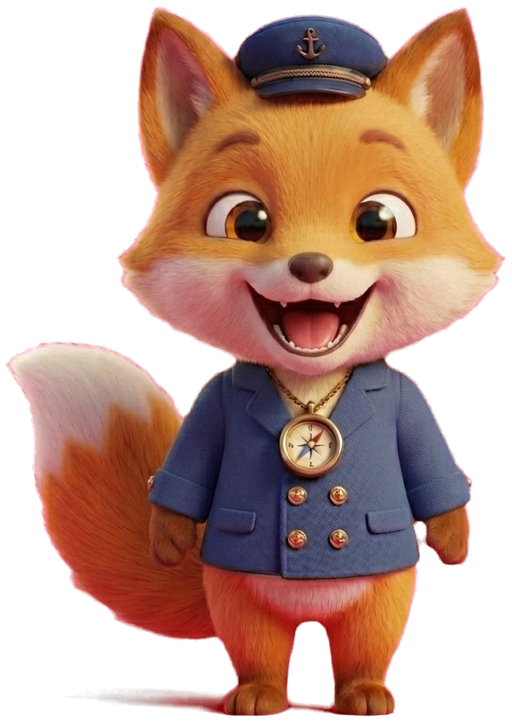
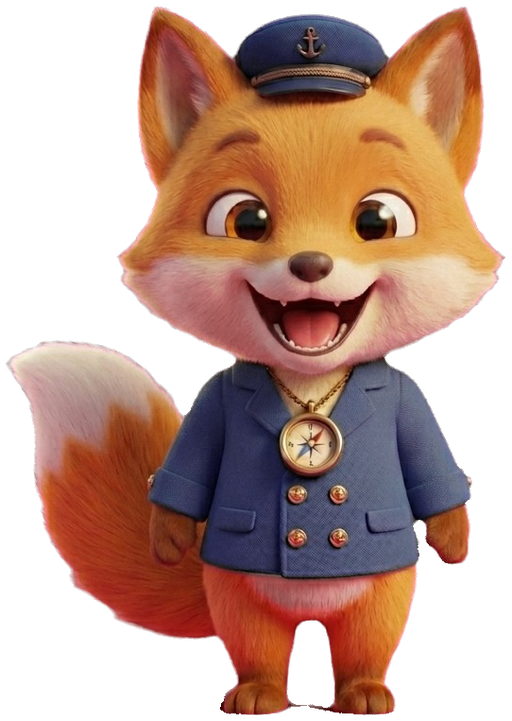
Figuren im Hafen: Händler, Verkäuferin und Bootsbauer als Bilder
- Walross, Seehündin und Biber von Marc (Gemini), freigestellt.
- Freistellen von Figuren: Schatten am Boden fällt weg, pinker Schimmer
  wird auch aus Rot herausgerechnet. Talo und Tala neu freigestellt.
- Sprechblase zeigt im runden Rahmen den ganzen Kopf.
- BILDER.md: Tipp für weiße Figuren, FIGUREN.md: Tiere im Hafen.

Claude-Session: https://claude.ai/code/session_01RquttY5Fvxi8zMpAb1Usdz

diff --git a/taleria/lib/features/intro/speech_bubble.dart b/taleria/lib/features/intro/speech_bubble.dart
@@ -56,7 +56,7 @@ class SpeechBubble extends StatelessWidget {
               width: 72,
               height: 72,
               fit: BoxFit.cover,
-              alignment: const Alignment(0, -0.75),
+              alignment: Alignment.topCenter,
             ),
           ),
         ),

diff --git a/taleria/tool/bilder_freistellen.py b/taleria/tool/bilder_freistellen.py
@@ -70,6 +70,12 @@ def key_out_background(rgb, low=40.0, high=110.0, figure=False):
     region = border_connected(distance < high, seeds=distance < (70 if figure else 35))
     alpha = np.ones((h, w))
     alpha[region] = np.clip((distance[region] - low) / (high - low), 0, 1)
+    if figure:
+        # Schatten auf dem Boden (nur dunkleres Pink oder Grün): ganz weg, damit
+        # die Figur nicht auf einem grauen Fleck steht.
+        k = (rgb @ background) / (background @ background)
+        residual = np.sqrt(((rgb - k[..., None] * background) ** 2).sum(axis=2))
+        alpha[region & (residual < 24)] = 0
 
     # Farbe ohne Hintergrund: Pixel = a * Vordergrund + (1 - a) * Hintergrund.
     a = alpha[..., None]
@@ -97,7 +103,8 @@ def key_out_background(rgb, low=40.0, high=110.0, figure=False):
         # pinker Hintergrund
         magenta = np.clip(np.minimum(r, b) - g, 0, None) * near_edge
         foreground[..., 2] = b - magenta
-        foreground[..., 0] = r - magenta * 0.35
+        # Bei Figuren auch Rot ganz herausnehmen, sonst bleiben Weiß und Fell rosa.
+        foreground[..., 0] = r - magenta * (1.0 if figure else 0.35)
     # Feiner Saum aus Hintergrundfarbe am Rand (bei Fell und Haaren): Rand ein
     # wenig nach innen ziehen (bei 1024 Pixeln drei Pixel). Die Farben bleiben.
     choke = round(max(h, w) / 400) if figure else 0

diff --git a/taleria/BILDER.md b/taleria/BILDER.md
@@ -302,13 +302,15 @@ Für jede Figur das fertige Bild von Talo anhängen (`design/gemini/character.ta
 Gleicher Stil wie im angehängten Bild (hochwertiger 3D-Animationsfilm-Look, weiche Formen, warme Farben, Licht von links oben), aber eine ganz andere Figur: FIGUR. Freundlicher Blick, lächelt. Ganzer Körper von vorn, quadratisches Bild, die Figur vollständig in der Mitte mit Abstand zu allen Rändern. Keine Schrift, keine Logos, keine Waffen. Hintergrund: komplett einfarbig reines Pink-Magenta (#FF00FF), ohne Verlauf, ohne Schatten, ohne Boden.
 ```
 
-Die Tiere der Hafen-Figuren sind ein Vorschlag von Claude Code (in FIGUREN.md noch offen), die anderen stehen so in FIGUREN.md.
+Die Tiere der Hafen-Figuren hat Claude Code vorgeschlagen und Marc so gemacht (jetzt auch in FIGUREN.md), die anderen standen schon in FIGUREN.md.
+
+Tipp: Bei Figuren mit viel Weiß oder Grau (zum Beispiel einer weißen Schürze) besser grünen Hintergrund (#00FF00) nehmen, außer die Figur trägt selbst Grün. Pink färbt Weiß rosa, Grün lässt sich sauberer herausrechnen.
 
 | Datei | Figur | Beschreibung (statt „FIGUR“ einsetzen) | Stand |
 | --- | --- | --- | --- |
-| `character.haendler` | Händler im Hafen | ein gemütliches Walross mit großem Schnurrbart, grüner Kaufmannsweste über weißem Hemd und kleiner runder Brille, es hält ein dickes Buch unter dem Arm | fehlt |
-| `character.verkaeuferin` | Verkäuferin am Fischbrötchen-Stand | eine fröhliche Seehündin mit weißer Schürze und rot-weiß kariertem Kopftuch, sie hält ein Tablett mit Fischbrötchen | fehlt |
-| `character.bootsbauer` | Bootsbauer | ein kräftiger Biber mit Zimmermannsweste und Bleistift hinter dem Ohr, er trägt ein Holzbrett unter dem Arm | fehlt |
+| `character.haendler` | Händler im Hafen | ein gemütliches Walross mit großem Schnurrbart, grüner Kaufmannsweste über weißem Hemd und kleiner runder Brille, es hält ein dickes Buch unter dem Arm | da |
+| `character.verkaeuferin` | Verkäuferin am Fischbrötchen-Stand | eine fröhliche Seehündin mit weißer Schürze und rot-weiß kariertem Kopftuch, sie hält ein Tablett mit Fischbrötchen | da |
+| `character.bootsbauer` | Bootsbauer | ein kräftiger Biber mit Zimmermannsweste und Bleistift hinter dem Ohr, er trägt ein Holzbrett unter dem Arm | da |
 | `character.bruno` | Bruno, Obstbauer | ein großer, gemütlicher Braunbär mit Strohhut und grüner Latzhose, er hält einen Korb voller roter Äpfel | fehlt |
 | `character.greta` | Greta, Seilmacherin | eine weiße Ziege mit kleinen Hörnern, rotem Kopftuch und Lederschürze, über der Schulter trägt sie aufgerollte Seile | fehlt |
 | `character.otti` | Otti, Fischer | ein Fischotter mit gelber Regenjacke und Fischermütze, er hält einen geflochtenen Korb mit glänzenden Fischen | fehlt |

diff --git a/taleria/ASSETS_LICENSES.md b/taleria/ASSETS_LICENSES.md
@@ -28,6 +28,9 @@ Bei Bildern aus Gemini steht Marc als Urheber; vor dem Start prüfen, ob die Nut
 | `character.tala.wave` | `assets/images/character.tala.wave.png` | Bild (KI) | Marc mit Google Gemini | 10.10.2026 | laut Nutzungsbedingungen von Gemini, vor dem Start prüfen | Pose „winkt“. Original in `design/gemini/`, freigestellt mit `tool/bilder_freistellen.py`. |
 | `character.tala.happy` | `assets/images/character.tala.happy.png` | Bild (KI) | Marc mit Google Gemini | 10.10.2026 | laut Nutzungsbedingungen von Gemini, vor dem Start prüfen | Pose „freut sich“. Original in `design/gemini/`, freigestellt mit `tool/bilder_freistellen.py`. |
 | `character.tala.think` | `assets/images/character.tala.think.png` | Bild (KI) | Marc mit Google Gemini | 10.10.2026 | laut Nutzungsbedingungen von Gemini, vor dem Start prüfen | Pose „denkt nach“. Original in `design/gemini/`, freigestellt mit `tool/bilder_freistellen.py`. |
+| `character.haendler` | `assets/images/character.haendler.png` | Bild (KI) | Marc mit Google Gemini | 10.10.2026 | laut Nutzungsbedingungen von Gemini, vor dem Start prüfen | Händler im Hafen (Walross). Original in `design/gemini/`, freigestellt mit `tool/bilder_freistellen.py`. |
+| `character.verkaeuferin` | `assets/images/character.verkaeuferin.png` | Bild (KI) | Marc mit Google Gemini | 10.10.2026 | laut Nutzungsbedingungen von Gemini, vor dem Start prüfen | Verkäuferin am Fischbrötchen-Stand (Seehündin). Original in `design/gemini/`, freigestellt mit `tool/bilder_freistellen.py`. |
+| `character.bootsbauer` | `assets/images/character.bootsbauer.png` | Bild (KI) | Marc mit Google Gemini | 10.10.2026 | laut Nutzungsbedingungen von Gemini, vor dem Start prüfen | Bootsbauer (Biber). Original in `design/gemini/`, freigestellt mit `tool/bilder_freistellen.py`. |
 | `island.hafen.background` | `assets/images/island.hafen.background.jpg` | Bild (KI) | Marc mit Google Gemini | 10.10.2026 | laut Nutzungsbedingungen von Gemini, vor dem Start prüfen | Original in `design/gemini/`. Das Schild „Fischbrötchen“ ist Schrift im Bild (nur Deutsch). |
 | `island.tauschinsel.background` | `assets/images/island.tauschinsel.background.jpg` | Bild (KI) | Marc mit Google Gemini | 10.10.2026 | laut Nutzungsbedingungen von Gemini, vor dem Start prüfen | Original in `design/gemini/`. |
 | `island.wunschinsel.background` | `assets/images/island.wunschinsel.background.jpg` | Bild (KI) | Marc mit Google Gemini | 10.10.2026 | laut Nutzungsbedingungen von Gemini, vor dem Start prüfen | Original in `design/gemini/`. |

diff --git a/taleria/CLAUDE.md b/taleria/CLAUDE.md
@@ -579,3 +579,8 @@ Jede Insel: Ankunftsfilm, 7 Stationen mit 3 Ankerplätzen dazwischen (Schatzinse
 **Rang-Abzeichen, umgesetzt am 10.10.2026:**
 - Die fünf Ränge haben Bilder von Marc (`rank.schiffsjunge` Holz, `rank.matrose` Bronze, `rank.bootsmann` Silber, `rank.steuermann` Gold, `rank.kapitaen` Gold mit Edelsteinen). Sie erscheinen ohne Code-Änderung überall, wo der Rang gezeigt wird: Startseite (Rang und Seemeilen), neuer Rang nach einer Station oder Begegnung, Einführung.
 - Die Orden der ersten drei Inseln haben Bilder von Marc (`badge.hafen`, `badge.tauschinsel`, `badge.wunschinsel`): goldener Orden mit blauem Band, im Hochformat. In der Orden-Sammlung und bei der Feier nach einer geschafften Insel wird er ganz gezeigt (nicht mehr rund ausgeschnitten).
+
+**Figuren auf den Inseln, begonnen am 10.10.2026 (BILDER.md Abschnitt 4d):**
+- Hafen fertig: Händler (Walross), Verkäuferin am Fischbrötchen-Stand (Seehündin), Bootsbauer (Biber). Sie erscheinen ohne Code-Änderung in den Sprechblasen der Stationen. Tauschinsel, Wunschinsel und Meister Taleron folgen.
+- In der Sprechblase zeigt der runde Rahmen jetzt das obere Ende des Bildes, damit der ganze Kopf zu sehen ist.
+- Freistellen von Figuren: Schatten auf dem Boden fällt weg, der pinke Schimmer wird auch aus Rot herausgerechnet.

diff --git a/taleria/FIGUREN.md b/taleria/FIGUREN.md
@@ -50,7 +50,7 @@ Alle Figuren sind Entwürfe. Namen und Rollen stammen aus `INSELN.md`.
 
 | Insel | Figur | Tier | Rolle |
 | --- | --- | --- | --- |
-| Hafen | Händler am Kontor, Verkäuferin am Fischbrötchen-Stand, Bootsbauer | offen | Nebenfiguren ohne festen Namen |
+| Hafen | Händler am Kontor, Verkäuferin am Fischbrötchen-Stand, Bootsbauer | Walross, Seehündin, Biber | Nebenfiguren ohne festen Namen |
 | Tauschinsel | Bruno | Bär | Obstbauer |
 | Tauschinsel | Greta | Ziege | Seilmacherin |
 | Tauschinsel | Otti | Otter | Fischer |
